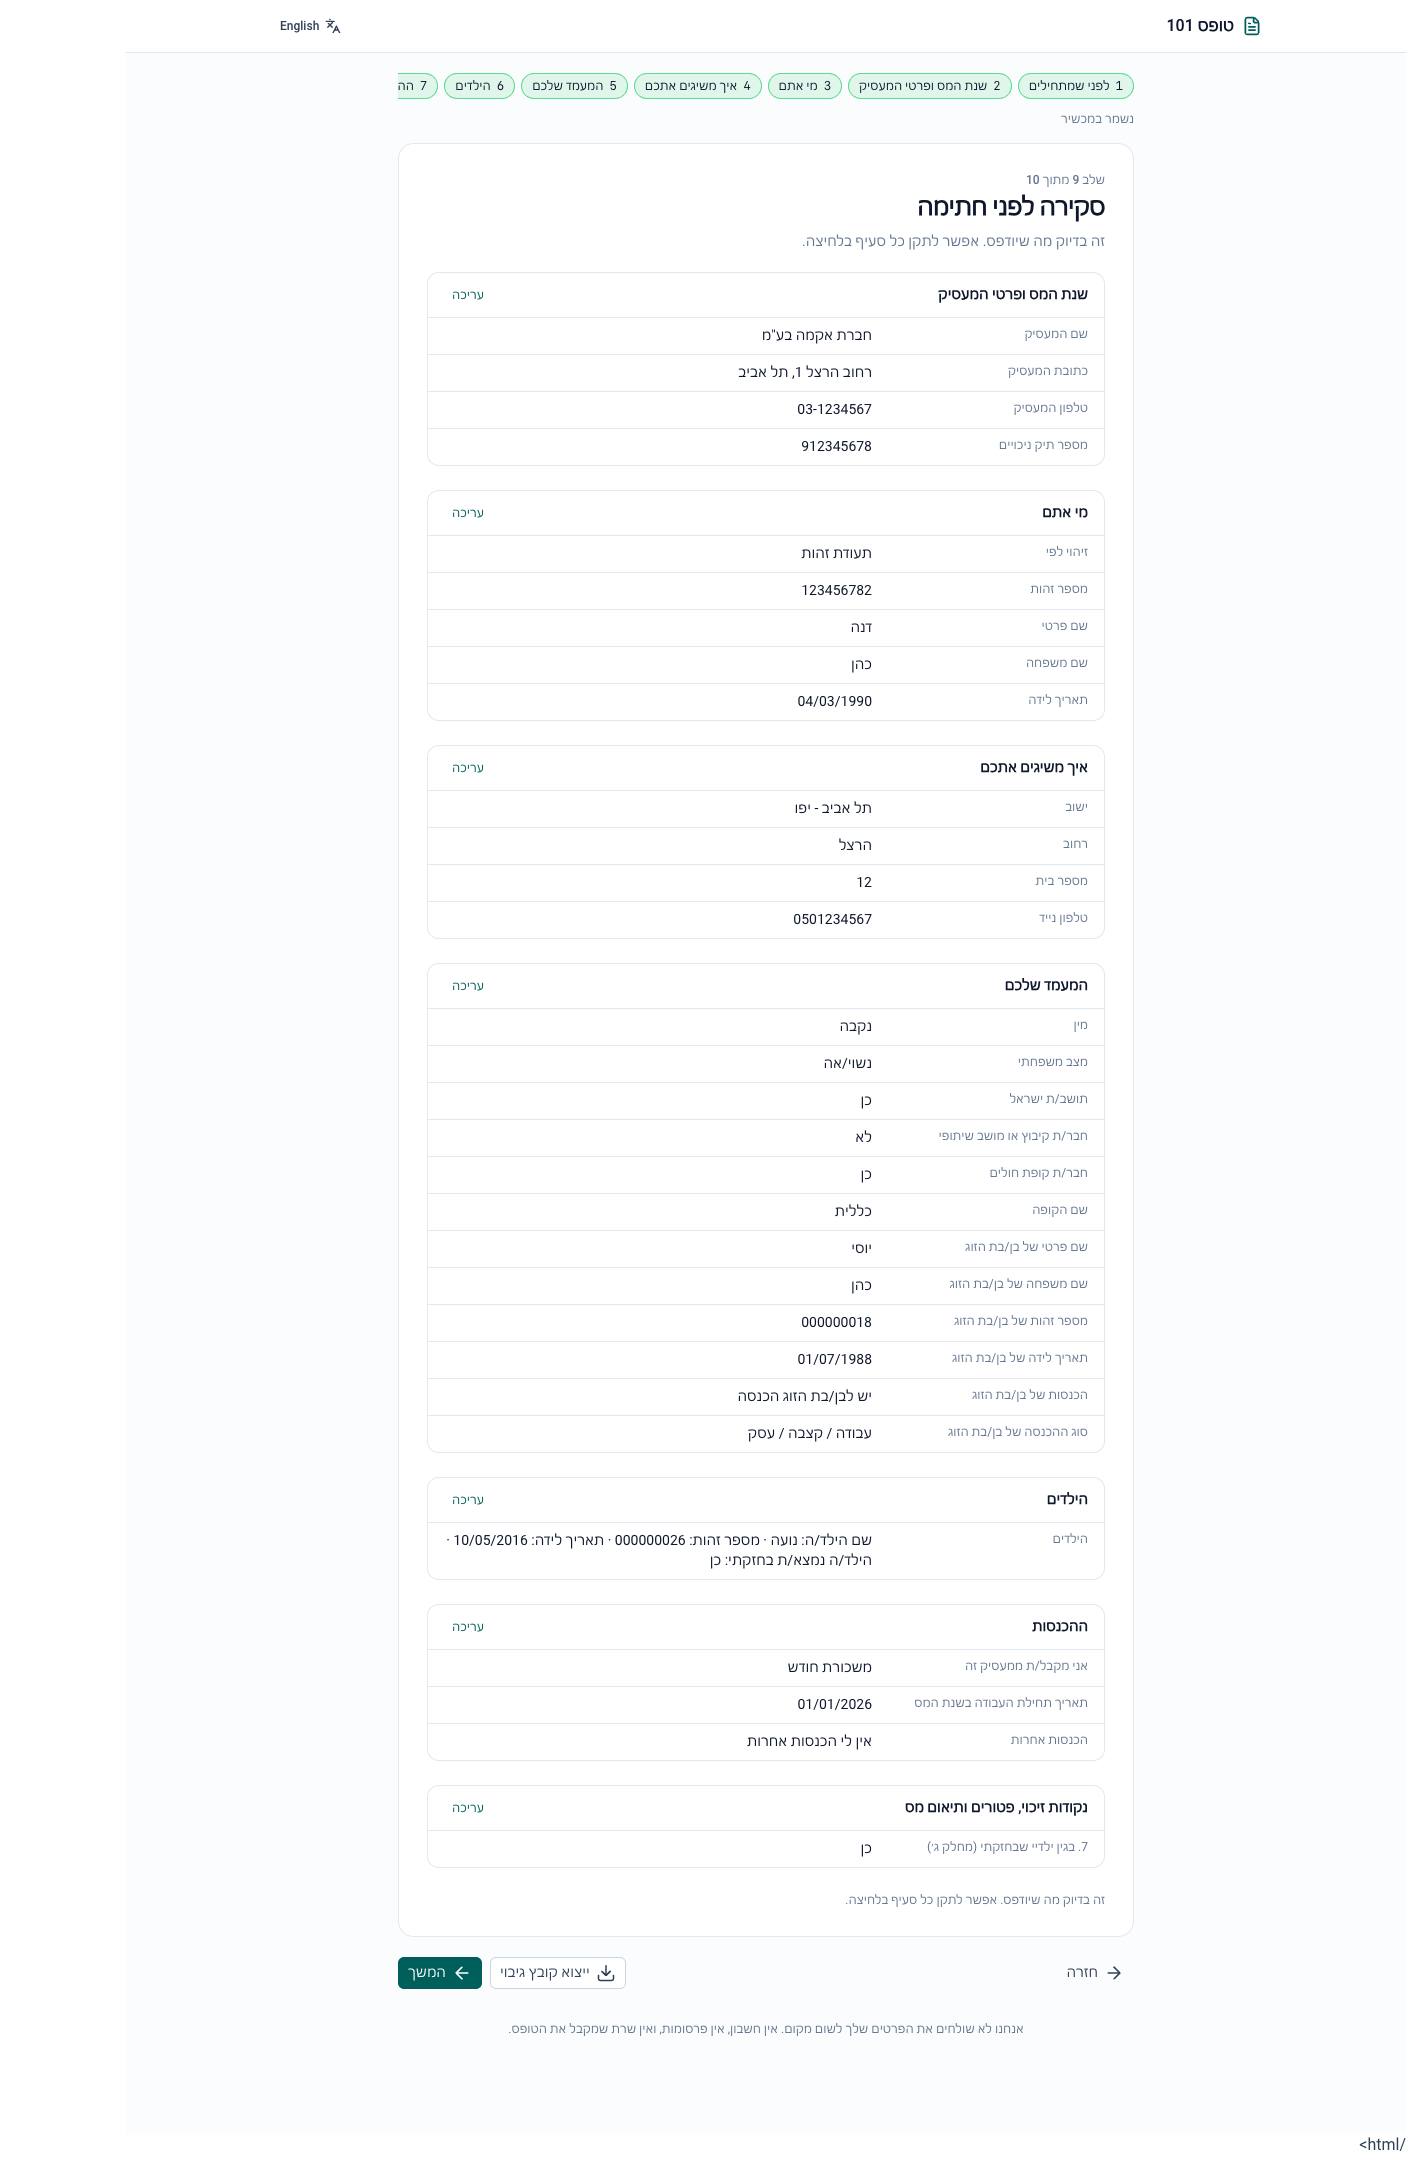
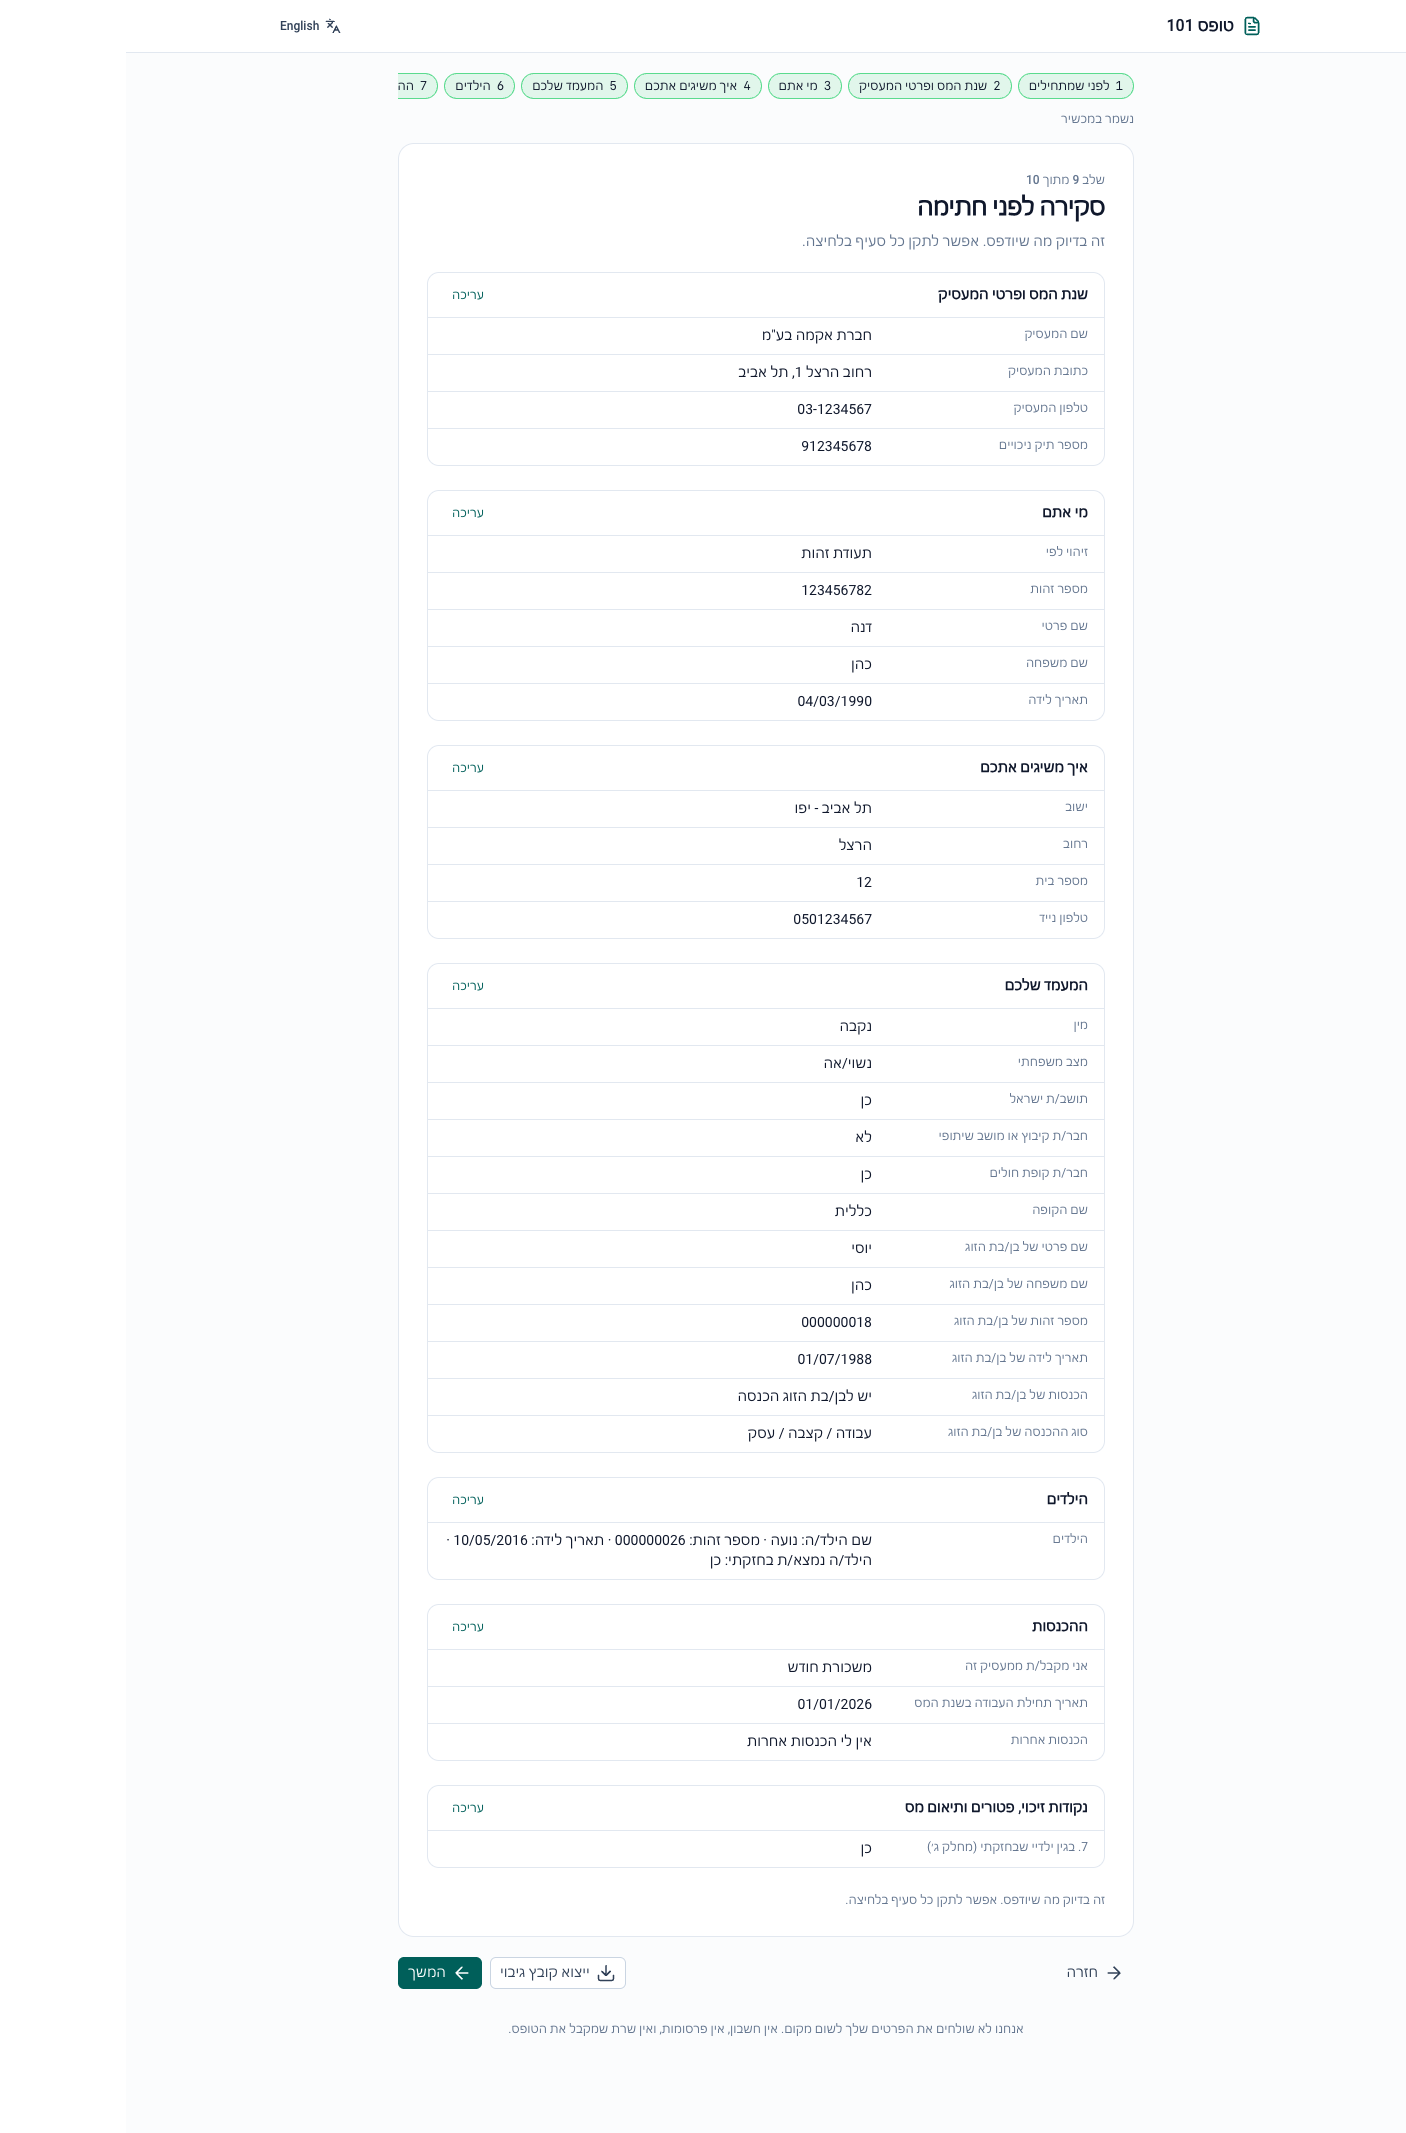
ux: step error badges only after a failed attempt
Arriving at a step no longer shows red counters for steps the user has not
visited — the badge is a response to an action, not a greeting.

diff --git a/app/components/form/StepProgress.vue b/app/components/form/StepProgress.vue
@@ -9,6 +9,8 @@ const props = defineProps<{
   steps: StepView[]
   current: number
   disabled?: boolean
+  /** Badges only after the user has attempted to move on — no wall of red on arrival. */
+  showCounts?: boolean
 }>()
 
 const emit = defineEmits<{ select: [index: number] }>()
@@ -64,7 +66,7 @@ function onKeydown(event: KeyboardEvent, index: number) {
           <span aria-hidden="true" class="font-mono">{{ index + 1 }}</span>
           <span class="hidden sm:inline">{{ t(step.titleKey) }}</span>
           <span
-            v-if="step.issueCount"
+            v-if="props.showCounts && step.issueCount"
             class="ms-1 rounded-full bg-error px-1.5 text-[10px] font-semibold text-white"
             :aria-label="t('meta.errorsInStep', { n: step.issueCount })"
           >

diff --git a/app/pages/form.vue b/app/pages/form.vue
@@ -191,7 +191,12 @@ const printHref = computed(() => path("/print/"))
 
       <!-- progress -->
       <div class="mb-4 flex flex-wrap items-center justify-between gap-2">
-        <StepProgress :steps="form.steps.value" :current="form.currentStepIndex.value" @select="jump" />
+        <StepProgress
+          :steps="form.steps.value"
+          :current="form.currentStepIndex.value"
+          :show-counts="showErrors"
+          @select="jump"
+        />
         <p class="text-xs text-muted">
           <span v-if="form.saving.value">{{ t("common.saving") }}</span>
           <span v-else-if="form.lastSavedAt.value">{{ t("common.saved") }}</span>
